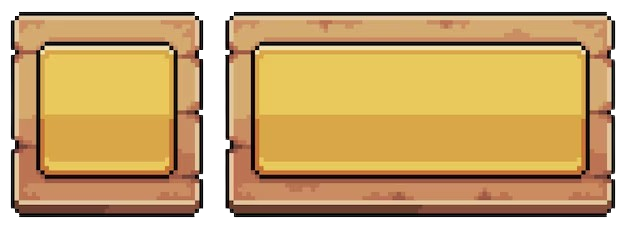
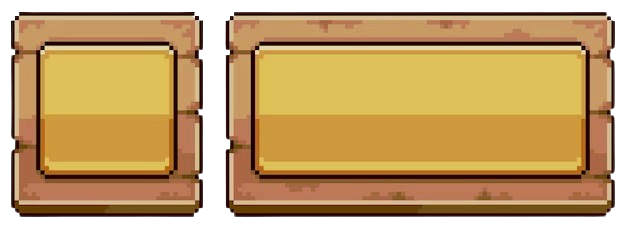
UI 색 조정 및 상점 코드 구현
적절한 상점 사진을 아직 찾지 못해 추후 수정 예정

diff --git a/2DGP_Project.py b/2DGP_Project.py
@@ -3,9 +3,21 @@ from Map import Map
 from Player import Player
 from UI import UI
 
+class Store:
+    def __init__(self):
+        self.image = load_image('store_test.png')
+
+    def draw(self):
+        self.image.draw(500, 300, 1000, 600)
+
+    def update(self):
+        pass
+
+
 def handle_events():
     global running
     global player
+    global store_mode
 
     events = get_events()
     for event in events:
@@ -14,7 +26,10 @@ def handle_events():
         elif event.type == SDL_KEYDOWN:
             if event.key == SDLK_ESCAPE:
                 running = False
-        player.handle_event(event)
+            elif event.key == SDLK_p:  # Press 'p' to toggle store
+                store_mode = not store_mode
+        if not store_mode:
+            player.handle_event(event)
 
 
 def reset_world():
@@ -23,8 +38,11 @@ def reset_world():
     global world
     global player
     global ui
+    global store
+    global store_mode
 
     running = True
+    store_mode = False
     world = []
 
     map = Map()
@@ -36,6 +54,7 @@ def reset_world():
     ui = UI()
     world.append(ui)
 
+    store = Store()
 
 def update_world():
     for o in world:
@@ -44,8 +63,12 @@ def update_world():
 
 def render_world():
     clear_canvas()
-    for o in world:
-        o.draw()
+    if store_mode:
+        store.draw()
+    else:
+
+        for o in world:
+            o.draw()
     update_canvas()
 
 
